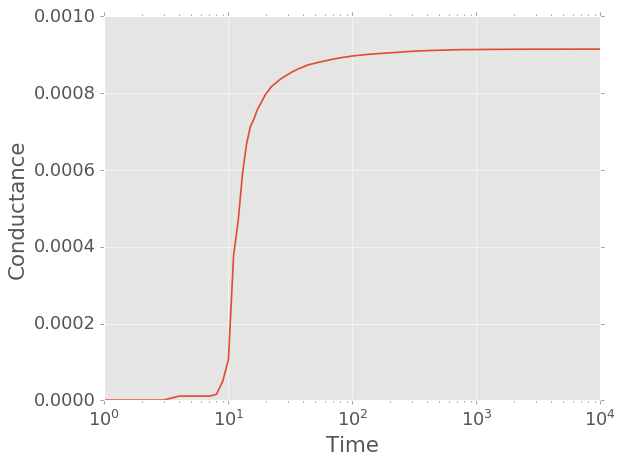
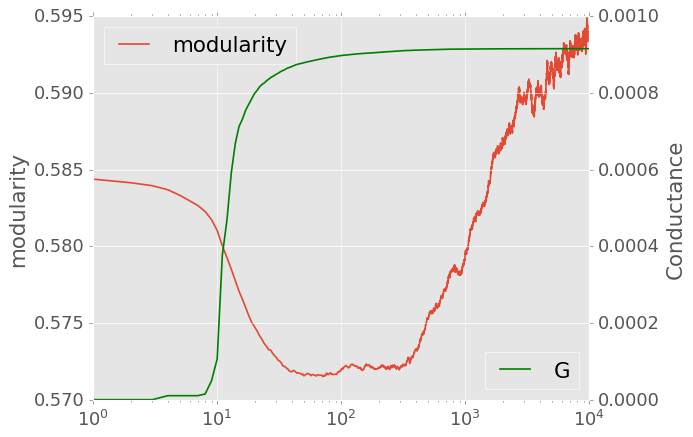
writing up the forecast doc

diff --git a/research/forecast.md b/research/forecast.md
@@ -8,20 +8,48 @@ Parameters:
 multi, shift, training_ratio, past_steps, cheat_period, cheat_steps = -3, -2.9, 0.5, 30, 60, 30
 ```
 
+20 left most wires are connected to an external input node and they are getting same signal from input. Similarly 20 right most wires are connected to an external drain. The voltage differences between these right most wires and the external drain are treated as the readouts. (Use this kind of set up to get most of the network involved and activated.)
+
+First 5000 time steps are the training period of the network. $\tau = 50$ Mackey-Glass signal is fed in to the external input. Then for the forecasting period, 30 steps of history states of the readout nodes is included in the regression (For higher degree of freedom). For a period of 60 time steps, 30 data points are predicted, then real Mackey-Glass signal is fed in again to renormalize the network.
+
+In general, the prediction equation reads:
+
+$$u_t = \vec{w} \cdot (1, u_{t-1}, \vec{S}_{t-1}, \vec{S}_{t-2}, .. ,\vec{S}_{t-30}),$$ 
+
+where $u_{i}$ is the input signal at time $i$, $\vec{S}_i$ is a 20 by 1 vector representing the network's readout at time $i$ and $\vec{w}$ is the weight with shape of 602 by 1. 
+
+-----
+
+## Forecast Result
+
+With accuracy of 97.8%, the result looks like:
+
+![](figure/forecast_result.png)
+
 -----
 
 ## Conductance time-series
+
+On semilogx scale, It's clear that the activation of network and drop of modularity coincide pretty well with respect to time. One thing to notice is that the activation and the modularity drop are both happening in the training period.
+
+Also, I have a hypothesis here as:
+
+Since the most of the network is involved in the activation, we don't observe a spike of modularity before it's big drop, which is actually observed for the same network with single source/drain.
 
 ![](figure/forecast_G_T.png)
 
 -----
 
-## Modularity Curve
+## Modularity, TE Curve
+
+Again, on semilogx scale, TE peak and modularity drop line up pretty well with respect to time.
 
 ![](figure/forecast_modularity.png)
 
 -----
 
 ## z-p space
+
+In the module z score - participation coefficient space, things are lining up with neuro-science conjectures as well. From starting point to around the activation of the network (which also means TE spike, modularity drop, the network's 'learning'), the data points are spreading out. Then these data points will condense again after 'learning' is finished.
 
 ![](figure/forecast_zp_time.png)
